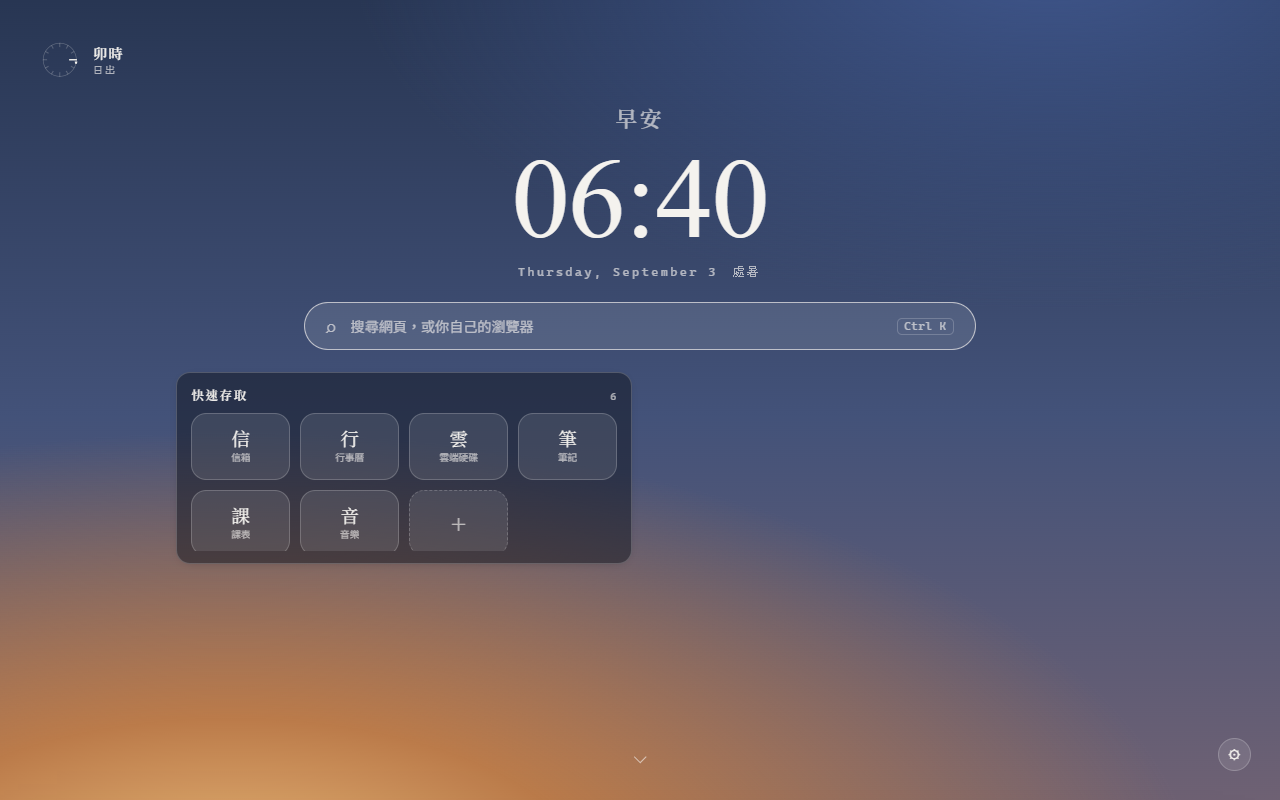
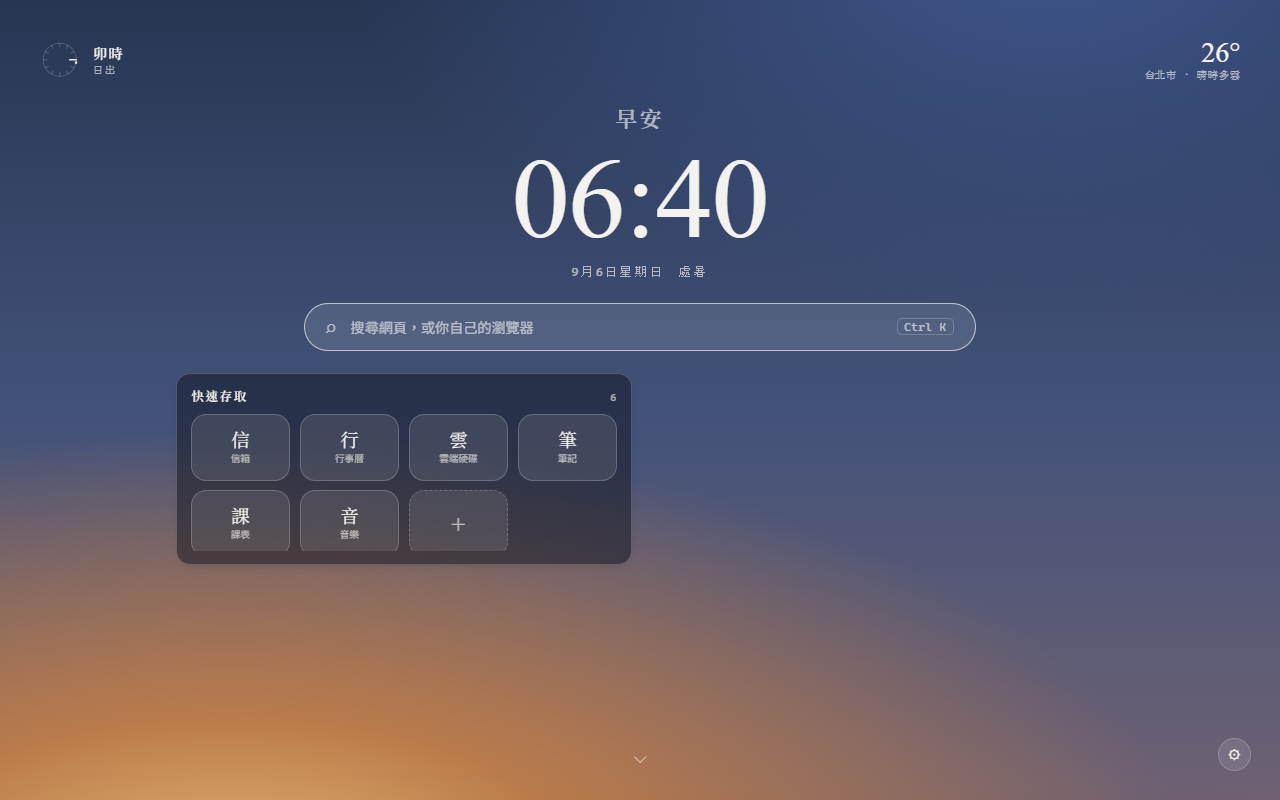
chore: submission pass — assets rebuilt, and two checks that catch what review would
Store screenshots were regenerated against what actually ships, which is how
two problems surfaced. The weather card was photographed mid-load, because
adding an observation layer made the async chain longer than the capture
window; the card is fed a fixed reading now, so an asset never depends on the
network or on what the weather happens to be doing. Then the seeded reading
was rejected as belonging to a different city: the settings said 121.56 and
the cache said 121.5654, which is 0.0054 apart against a 0.005 threshold.
That rule was working exactly as intended — the two numbers were mine to line
up. The shot now shows 26° with the apparent temperature and all three
forecast days, so the fixes are visible in the listing.

test/manifest.test.ts asserts that every permission and every host in the
manifest is explained in STORE.md and PRIVACY.md, that the version has one
source, and that no ⚠ placeholder is left in the checklist. Two hosts were
added this week; the failure mode is a documented feature and an undocumented
permission, which review finds and a test run does not.

Also fixed a real flake rather than re-running it: the dial collision test
waited a fixed 3.6s after .sunlab appeared, but that element is in the DOM
from the start at opacity 0, so waitFor returned immediately and the
measurement landed inside the five-second opening spin. Positions were read
mid-rotation and whether anything overlapped was luck. It now waits for every
ring's rotate to reach zero.

diff --git a/test/manifest.test.ts b/test/manifest.test.ts
@@ -1,0 +1,60 @@
+import { describe, expect, it } from "vitest";
+import { readFileSync } from "node:fs";
+
+/**
+ * manifest 宣告的每一條權限，文件裡都要有理由。
+ *
+ * 送審會逐條問。漏掉一條就是一趟來回，而漏掉最容易發生在「後來又加了一個
+ * 網域」的時候 —— 程式改了、測試綠了、文件沒動，沒有任何東西會提醒你。
+ */
+
+const manifest = JSON.parse(readFileSync("public/manifest.json", "utf8")) as {
+  permissions: string[];
+  optional_permissions: string[];
+  optional_host_permissions: string[];
+  version: string;
+  homepage_url: string;
+};
+const store = readFileSync("docs/STORE.md", "utf8");
+const privacy = readFileSync("docs/PRIVACY.md", "utf8");
+const pkg = JSON.parse(readFileSync("package.json", "utf8")) as {
+  version: string;
+};
+
+describe("上架前的一致性", () => {
+  it("每一條權限在上架文件裡都有說明", () => {
+    const all = [...manifest.permissions, ...manifest.optional_permissions];
+    const missing = all.filter((p) => !store.includes(`\`${p}\``));
+    expect(missing, "docs/STORE.md 沒有交代這幾條").toEqual([]);
+  });
+
+  it("每一個網域在上架文件和隱私頁裡都有說明", () => {
+    // manifest 寫的是 https://host/*，文件裡寫的是主機名
+    const hosts = manifest.optional_host_permissions.map((h) =>
+      h.replace(/^https:\/\//, "").replace(/\/\*$/, ""),
+    );
+    expect(
+      hosts.filter((h) => !store.includes(h)),
+      "STORE.md 少了",
+    ).toEqual([]);
+    expect(
+      hosts.filter((h) => !privacy.includes(h)),
+      "PRIVACY.md 少了",
+    ).toEqual([]);
+  });
+
+  it("版本號只有一個來源", () => {
+    // 建置時會把 package.json 的版本蓋進 dist/manifest.json，
+    // 但原始檔也該一致，不然讀原始碼的人會看到兩個數字
+    expect(manifest.version).toBe(pkg.version);
+  });
+
+  it("官方網站填了，而且跟文件裡的是同一個", () => {
+    expect(manifest.homepage_url).toMatch(/^https:\/\//);
+    expect(store).toContain(manifest.homepage_url);
+  });
+
+  it("送審清單裡沒有沒填的格子", () => {
+    expect(store).not.toContain("⚠");
+  });
+});

diff --git a/e2e/dial.spec.ts b/e2e/dial.spec.ts
@@ -25,9 +25,24 @@ async function openDial(page: Page, lang: string) {
   await page.reload();
   await page.locator(".badge").click();
   await expect(page.locator(".dial")).toBeVisible();
-  // 邊註和日出日落的點是 2.8 秒之後才淡入的，早了量不到
-  await page.locator(".sunlab").first().waitFor();
-  await page.waitForTimeout(3600);
+  /*
+   * 等環真的停下來，不要用固定秒數。
+   *
+   * .sunlab 一開始就在 DOM 裡（只是 opacity 0），所以 waitFor 立刻就回來，
+   * 固定等三秒六其實還落在五秒的開盤動畫中間 —— 量到的是轉到一半的位置，
+   * 相不相交純看運氣。這條測試曾經因此綠著，也曾經因此紅過。
+   *
+   * 盤面停下來的定義很明確：每一環的 rotate 都回到零。
+   */
+  await page.waitForFunction(
+    () =>
+      [...document.querySelectorAll(".dial [style*='--spin']")].every((el) => {
+        const r = getComputedStyle(el).rotate;
+        return r === "none" || Math.abs(parseFloat(r)) < 0.01;
+      }),
+    undefined,
+    { timeout: 15000 },
+  );
 }
 
 /** 中央每一行 × 每個金色標籤，相交的組合 */
